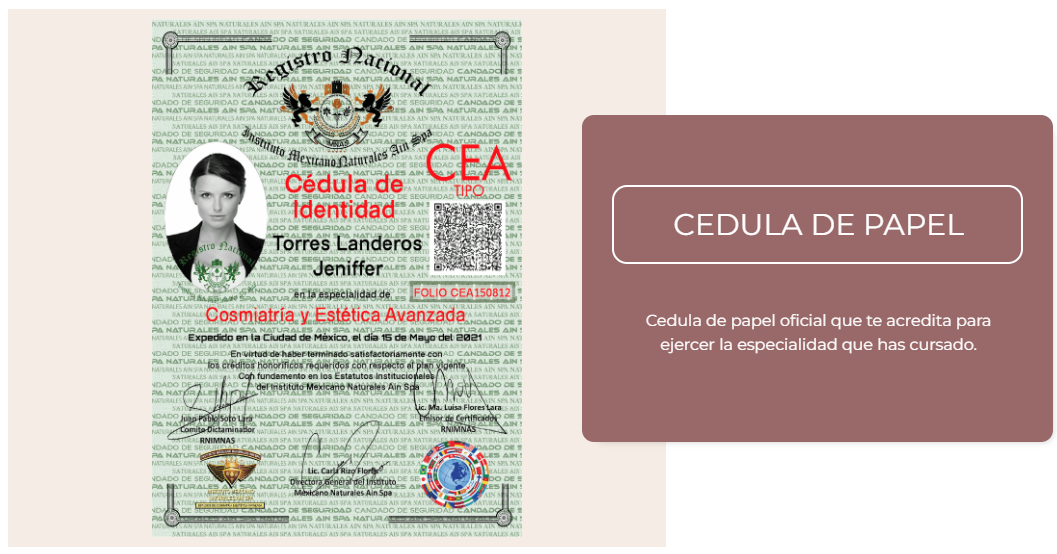
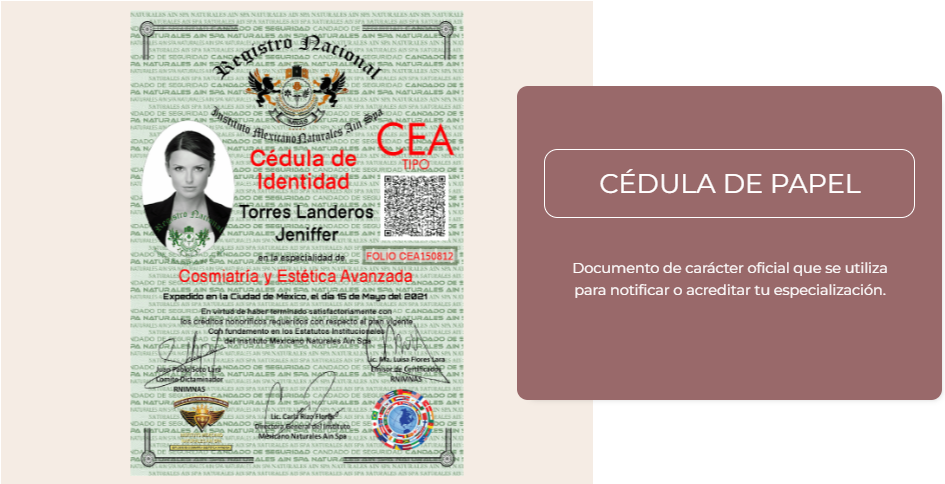
pdf avales y preguntas frecuentes

diff --git a/public/assets/user/custom/avales.css b/public/assets/user/custom/avales.css
@@ -136,6 +136,7 @@
 
 .text_certifcado{
     color: #F5ECE4;
+    font-size: 22px;
 }
 
 .text_certifcado_2{

diff --git a/resources/views/user/avales.blade.php b/resources/views/user/avales.blade.php
@@ -43,22 +43,25 @@ crossorigin="anonymous" />
 
         <div class="col-8">
             <h2 class="tittle_avales">
+                ¿Qué es un documento SEP CONOCER?
+            </h2>
+            <h5 class="parrafo_avales">
                 Entidad de Certificación y Evaluación
                 ECE356-18 Instituto Mexicano Naturales Ain Spa
-            </h2>
+            </h5>
             <p class="parrafo_avales">
-                Es un documento oficial de alcance nacional expedido por el gobierno federal
+                Es un Documento Oficial de alcance nacional expedido por el Gobierno Federal
                 a través del cual se reconocen conocimientos, habilidades, destrezas y actitudes
-                individuales que una persona demuestra para brindar un servicio laboral con la calidad y excelencia que los sectores especializados requieren
+                individuales que una persona demuestra para brindar un servicio laboral con la calidad y excelencia que los sectores especializados requieren.
             </p>
             {{-- <span class="highlight-spot " data-toggle="popover" data-content="This is an example hotspot!"></span> --}}
         </div>
 
         <div class="col-12">
             <p class="parrafo_avales_2">
-                Es un documento oficial de alcance nacional expedido por el gobierno federal
+                Es un Documento Oficial de alcance nacional expedido por el Gobierno Federal
                 a través del cual se reconocen conocimientos, habilidades, destrezas y actitudes
-                individuales que una persona demuestra para brindar un servicio laboral con la calidad y excelencia que los sectores especializados requieren
+                individuales que una persona demuestra para brindar un servicio laboral con la calidad y excelencia que los sectores especializados requieren.
             </p>
         </div>
 
@@ -129,8 +132,8 @@ crossorigin="anonymous" />
 <section class="primario bg_overley" style="background-color:#fff;">
     <div class="row">
         <div class="col-12 mb-5">
-            <h2 class="titulo_alfa text-center">¿Con cuáles</h2>
-            <h3 class="titulo_beta text-center">estándares contámos?</h3>
+            <h2 class="titulo_alfa text-center">Conoce todos</h2>
+            <h3 class="titulo_beta text-center">nuestros Estándares</h3>
         </div>
 
         <div class="col-12 m-auto">
@@ -724,19 +727,27 @@ crossorigin="anonymous" />
 
         <div class="col-8">
             <h2 class="tittle_avales">
+                ¿Qué es un diploma SEP RVOE?
+            </h2>
+            <h5 class="parrafo_avales">
                 Validez Oficial ante la Dirección General de Centro
                 De Formación para el Trabajo (D.G.C.F.T) con
                 Acuerdo 17FT274
-            </h2>
+            </h5>
             <p class="parrafo_avales">
-                Es el reconocimiento de validez oficial de estudios e incorporación de un programa o plan de estudios al sistema educativo nacional
-                Si un Diplomado o Carrera lo tiene, cuenta con el aval de la Secretaría de Educación Pública a nivel federal.
+                Es un reconocimiento con validez oficial de estudios incorado
+                a un programa o plan de estudios al sistema educativo nacional,
+                que cuenta con el aval de la Secretaría de Educación Pública a
+                nivel Federal.
             </p>
         </div>
 
         <div class="col-12">
             <p class="parrafo_avales_2">
-                Es el reconocimiento de validez oficial de estudios e incorporación de un programa o plan de estudios al sistema educativo nacional Si un Diplomado o Carrera lo tiene, cuenta con el aval de la Secretaría de Educación Pública a nivel federal.
+                Es un reconocimiento con validez oficial de estudios incorado
+                a un programa o plan de estudios al sistema educativo nacional,
+                que cuenta con el aval de la Secretaría de Educación Pública a
+                nivel Federal.
             </p>
         </div>
 
@@ -821,8 +832,8 @@ crossorigin="anonymous" />
 <section class="primario bg_overley padding_avales_cont" style="background-color:#fff;">
     <div class="row">
         <div class="col-12 mb-5">
-            <h2 class="titulo_alfa text-center">¿Con cuáles</h2>
-            <h3 class="titulo_beta text-center">RVOE contámos?</h3>
+            <h2 class="titulo_alfa text-center">Conoce todos</h2>
+            <h3 class="titulo_beta text-center">nuestros RVOES</h3>
         </div>
 
         <div class="col-12 m-auto">
@@ -936,19 +947,21 @@ crossorigin="anonymous" />
 
         <div class="col-8">
             <h2 class="tittle_avales">
+                ¿Qué es un diploma STPS?
+            </h2>
+            <h5 class="parrafo_avales">
                 Validez Oficial ante la Dirección General de Centro
                 De Formación para el Trabajo (D.G.C.F.T) con
                 Acuerdo 17FT274
-            </h2>
+            </h5>
             <p class="parrafo_avales">
-                Es el reconocimiento de validez oficial de estudios e incorporación de un programa o plan de estudios al sistema educativo nacional
-                Si un Diplomado o Carrera lo tiene, cuenta con el aval de la Secretaría de Educación Pública a nivel federal.
+                Es una constancia que se entrega al finalizar un entrenamiento o cursos y es avalada por la Secretaría del Trabajo y previsión social (STPS)
             </p>
         </div>
 
         <div class="col-12">
             <p class="parrafo_avales_2">
-                Es el reconocimiento de validez oficial de estudios e incorporación de un programa o plan de estudios al sistema educativo nacional Si un Diplomado o Carrera lo tiene, cuenta con el aval de la Secretaría de Educación Pública a nivel federal.
+                Es una constancia que se entrega al finalizar un entrenamiento o cursos y es avalada por la Secretaría del Trabajo y previsión social (STPS)
             </p>
         </div>
 
@@ -1027,17 +1040,25 @@ crossorigin="anonymous" />
 
         <div class="col-8">
             <h2 class="tittle_avales">
-                Registro nacional instituto naturales ain spa
-
+                ¿Qué es el Registro Nacional del Instituto Mexicano Naturales Ain Spa?
             </h2>
+            <h5 class="tittle_avales">
+                Registro nacional instituto naturales ain spa
+            </h5>
             <p class="parrafo_avales">
-                El registro nacional del  instituto mexicano naturales ain spa es un registro interno donde se lleva un padrón detallado de cada uno de los alumnos que han acreditado las carreras, diplomados y certificaciones de acuerdo a los estatus requeridos en cada uno de ellos otorgando así credibilidad y sustento de los conocimientos , capacidades y aptitudes del egresado
+                Tiene como principal función, que cada alumno pueda encontrar con facilidad su
+                registro, el cual va ligado a cada especiliadad que haya cursado con el Instituto.
+                Esto representa credibilidad y sustentode los Conocimientos, Capacidades y
+                Actitudes.
             </p>
         </div>
 
         <div class="col-12">
             <p class="parrafo_avales_2">
-                El registro nacional del  instituto mexicano naturales ain spa es un registro interno donde se lleva un padrón detallado de cada uno de los alumnos que han acreditado las carreras, diplomados y certificaciones de acuerdo a los estatus requeridos en cada uno de ellos otorgando así credibilidad y sustento de los conocimientos , capacidades y aptitudes del egresado
+                Tiene como principal función, que cada alumno pueda encontrar con facilidad su
+                registro, el cual va ligado a cada especiliadad que haya cursado con el Instituto.
+                Esto representa credibilidad y sustentode los Conocimientos, Capacidades y
+                Actitudes.
             </p>
         </div>
 
@@ -1049,9 +1070,27 @@ crossorigin="anonymous" />
                 <div class="carousel-inner">
                     <div class="carousel-item active">
                         <p class="text-center">
-                            <img src="{{asset('assets/user/certificaciones/cedula_papel.png')}}" class="img_slide_avales" alt="">
+                        <img src="{{asset('assets/user/certificaciones/Titulo_Honorifico.png')}}" class="img_slide_avales" alt="...">
                         </p>
                       </div>
+
+                    <div class="carousel-item">
+                        <p class="text-center">
+                            <img src="{{asset('assets/user/certificaciones/diploma_imnas.png')}}" class="img_slide_avales" alt="...">
+                        </p>
+                    </div>
+
+                    <div class="carousel-item">
+                        <p class="text-center">
+                            <img src="{{asset('assets/user/certificaciones/tira_materias.png')}}" class="img_slide_avales" alt="...">
+                        </p>
+                    </div>
+
+                    <div class="carousel-item">
+                        <p class="text-center">
+                            <img src="{{asset('assets/user/certificaciones/cedula_papel.png')}}" class="img_slide_avales" alt="">
+                        </p>
+                    </div>
 
                       <div class="carousel-item">
                         <p class="text-center">
@@ -1059,17 +1098,6 @@ crossorigin="anonymous" />
                         </p>
                       </div>
 
-                      <div class="carousel-item">
-                        <p class="text-center">
-                        <img src="{{asset('assets/user/certificaciones/tira_de_materias.png')}}" class="img_slide_avales" alt="...">
-                        </p>
-                      </div>
-
-                      <div class="carousel-item">
-                        <p class="text-center">
-                        <img src="{{asset('assets/user/certificaciones/Titulo_Honorifico.png')}}" class="img_slide_avales" alt="...">
-                        </p>
-                      </div>
                 </div>
                 <button class="carousel-control-prev" type="button" data-bs-target="#carouselExampleControls" data-bs-slide="prev">
                   <span class="carousel-control-prev-icon" aria-hidden="true"></span>

diff --git a/resources/views/user/single_course.blade.php b/resources/views/user/single_course.blade.php
@@ -510,6 +510,20 @@ $hora_final = Carbon::createFromFormat('H:i:s', $horaFinal)->format('h:i A');
                                 Google meet
                             </p>
                         @endif
+                        <p class="text_preguntas_material">
+                            <strong>5. ¿Es necesario tener conocimientos previos?</strong><br>
+                            No se requiere ningún conocimiento ni estudios previos, comenzamos dese 0% y cualquier persona que este interesada en la materia, lo puede estudiar.<br>
+                        </p>
+                        <p class="text_preguntas_material">
+                            <strong>6. ¿Tiene un costo extra tramitar mis Documentos Oficiales?</strong><br>
+                            No, al comprar el curso ya te incluye los Documentos Oficiales.<br>
+                        </p>
+                        @if ($curso->modalidad == 'Presencial')
+                            <p class="text_preguntas_material">
+                                <strong>7. ¿Puedo pagar en efectivo?</strong><br>
+                                Claro, si no te es posible pagar por la plataforma puedes llegar a pagar a la sede.
+                            </p>
+                        @endif
                     </div>
 
                     @if ($curso->materiales != NULL)
